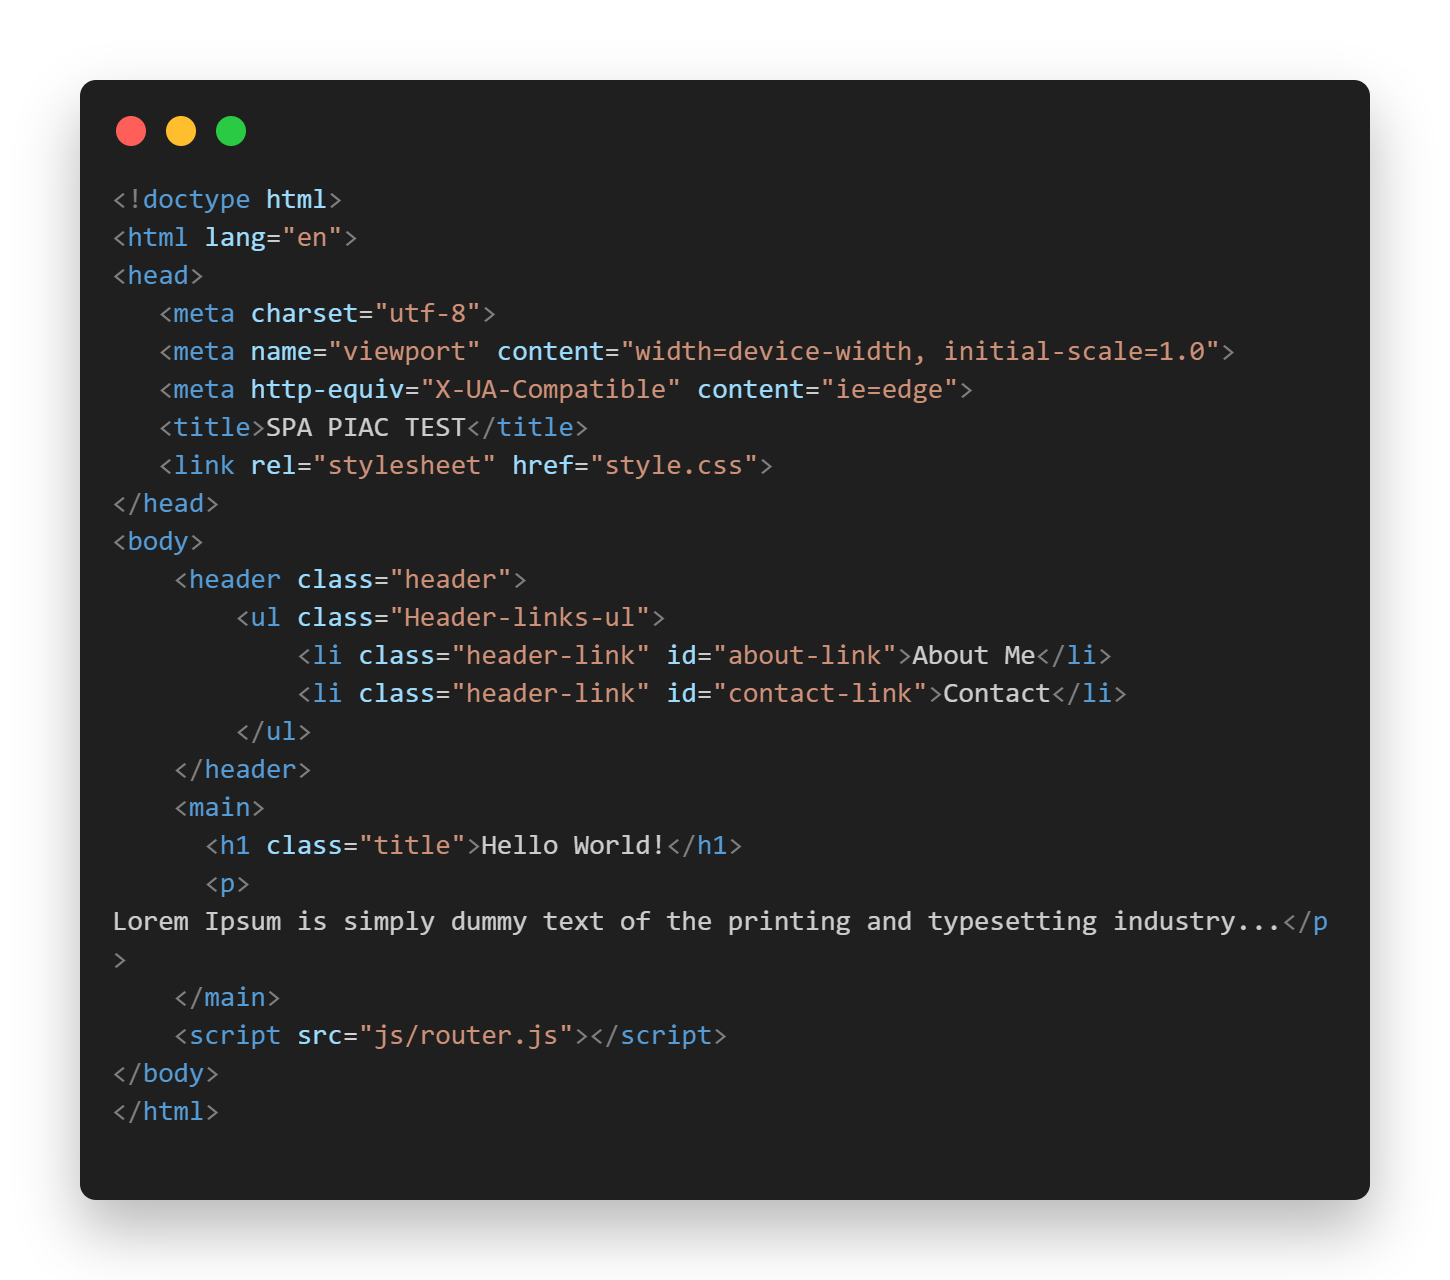
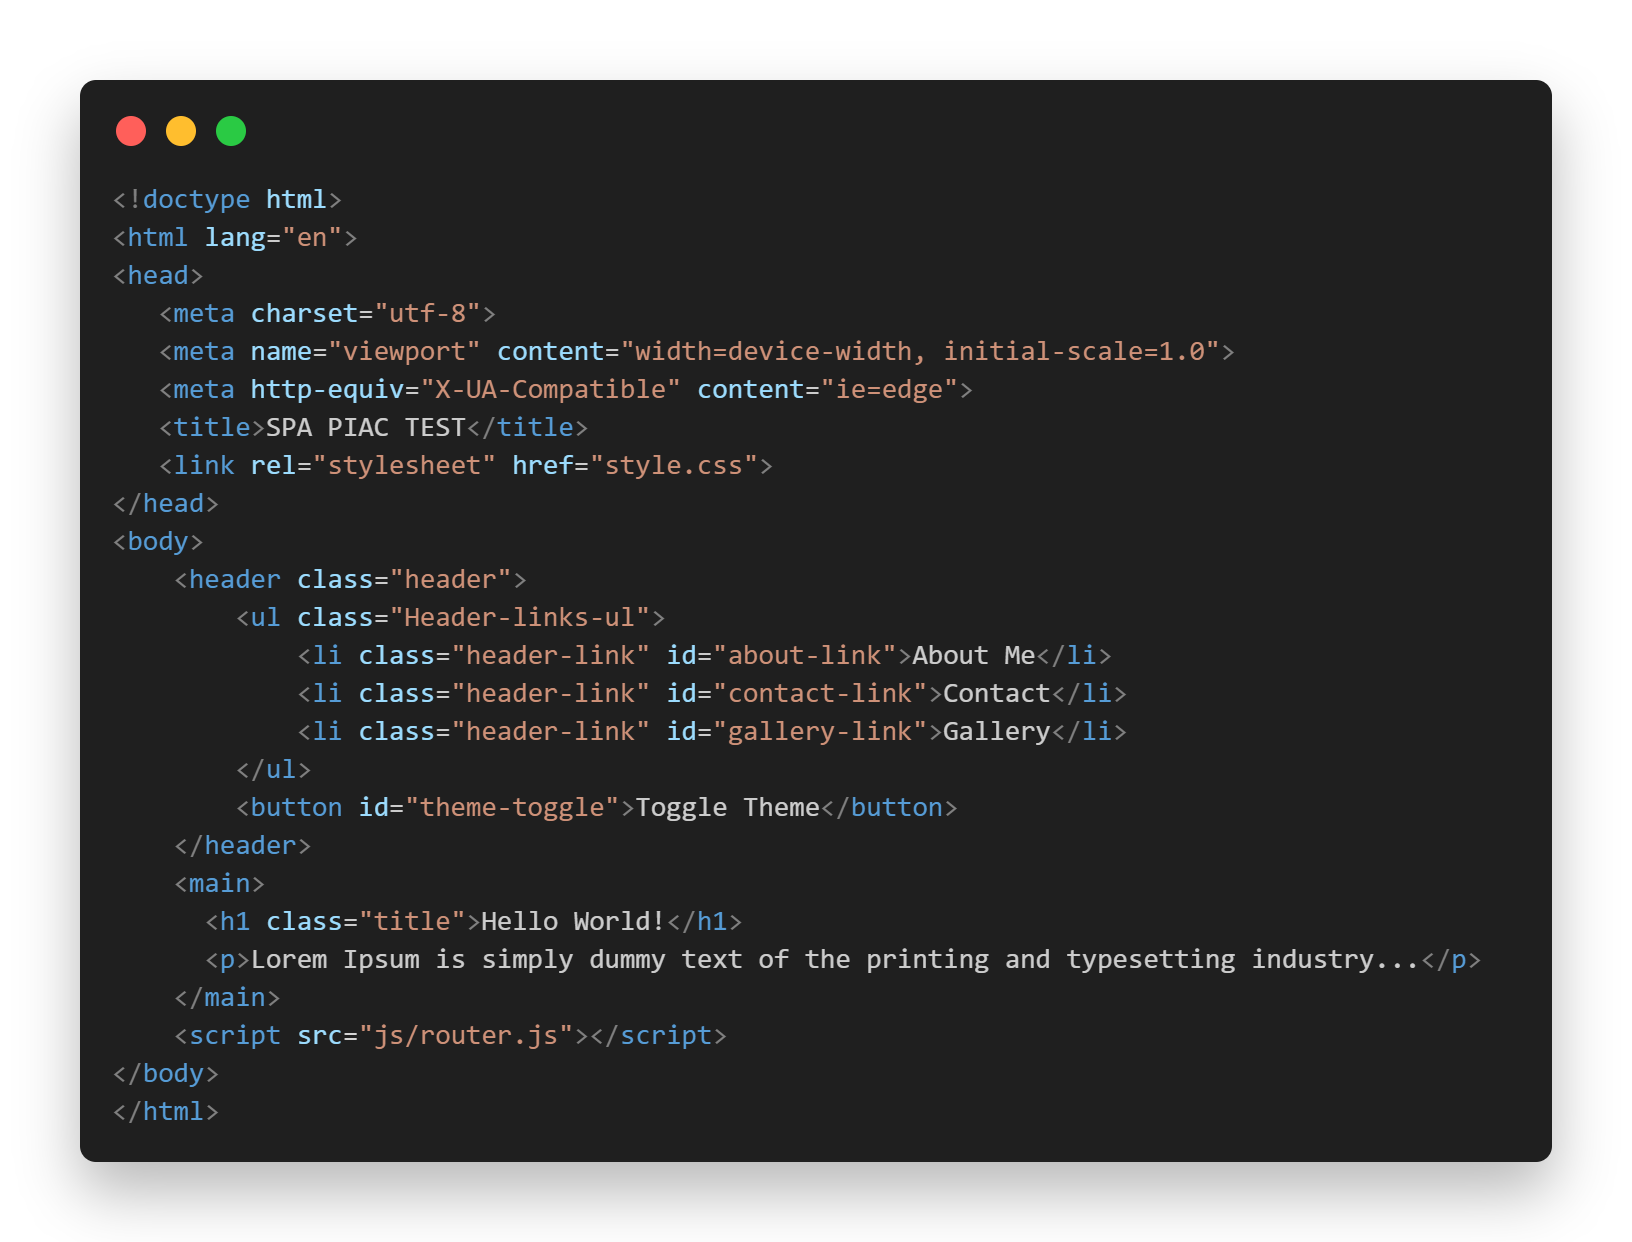
Gallery fix

Changed region(s): [[0.031, 0.0612, 0.869, 0.9485], [0.9, 0.0612, 0.9621, 0.9485], [0.869, 0.7649, 0.9, 0.7955]]

diff --git a/js/router.js b/js/router.js
@@ -37,12 +37,12 @@ document.querySelector('#gallery-link').addEventListener('click', () => {
 function RenderGalleryPage() {
     document.querySelector('main').innerHTML = `
         <h1 class="title">Gallery</h1>
-        <div id="gallery">
+        <div id="gallery" style="display: grid; grid-template-columns: repeat(3, 1fr); gap: 10px;">
             ${[...Array(9)].map((_, i) => `
                 <img class="gallery-image lazy" 
                      data-src="images/image${i + 1}.jpg" 
                      alt="Image ${i + 1}" 
-                     style="width: 100px; height: 100px; margin: 5px; cursor: pointer;">
+                     style="width: 100%; height: auto; cursor: pointer; border: 1px solid #ddd;">
             `).join('')}
         </div>
     `;
@@ -84,6 +84,7 @@ function RenderGalleryPage() {
         });
     });
 }
+
 
 function RenderAboutPage() {
     document.querySelector('main').innerHTML = ` 

diff --git a/style.css b/style.css
@@ -53,6 +53,25 @@ body.dark-mode {
     border-bottom: 1px solid #ffffff;
 }
 
+#gallery {
+    display: grid;
+    grid-template-columns: repeat(3, 1fr);
+    gap: 10px;
+}
+
+.gallery-image {
+    width: 100%;
+    height: auto;
+    border: 1px solid #ddd;
+    border-radius: 5px;
+    transition: transform 0.2s ease;
+    cursor: pointer;
+}
+
+.gallery-image:hover {
+    transform: scale(1.05);
+}
+
 .modal {
     position: fixed;
     top: 0;
